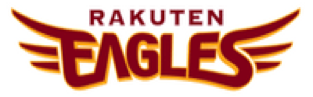
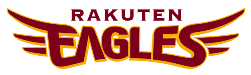
ref#tkt3606 ロゴ変更、print修正

diff --git a/ticketing/src/altair/app/ticketing/orderreview/templates/eagles/pc/order_review/receipt.html b/ticketing/src/altair/app/ticketing/orderreview/templates/eagles/pc/order_review/receipt.html
@@ -6,10 +6,6 @@
 <meta http-equiv="x-ua-compatible" content="ie=edge">
 <meta name="viewport" content="width=device-width, initial-scale=1">
 <link rel="shortcut icon" type="image/vnd.microsoft.icon" href="${view_context.static_url('images/eagles.ico')}">
-<link rel="apple-touch-icon" sizes="180x180" href="${view_context.static_url('images/touch.png')}">
-<link rel="apple-touch-icon-precomposed" href="${view_context.static_url('images/touch.png')}">
-<link rel="shortcut icon" href="${view_context.static_url('images/touch.png')}">
-<link rel="icon" sizes="192x192" href="${view_context.static_url('images/touch.png')}">
 <link rel="stylesheet" href="${view_context.static_url('css/common.css')}">
 <style>
     section.contents {
@@ -25,7 +21,7 @@
         justify-content: center;
     }
     .trademark-wrap {
-        width: 200px;
+        width: 250px;
         margin-bottom: 50px;
     }
     .trademark-wrap img {
@@ -95,14 +91,21 @@
             margin-left: 5%;
         }
     }
-    @page {
-        size: A4;
-        margin: 0;
-    }
     @media print {
+        @page {
+            size: A4;
+            margin: 0;
+        }
         html, body {
             width: 210mm;
-            height: 297mm;
+            font-size: 12pt !important;
+        }
+        * {
+            -webkit-filter: none;
+            -moz-filter: none;
+            -ms-filter: none;
+            -o-filter: none;
+            filter: none;
         }
         .page {
             margin: 0;
@@ -115,8 +118,11 @@
             page-break-after: always;
         }
         .wrap {
-            width: 90%;
-            margin-left: 5%;
+            width: 80%;
+            margin-left: 10%;
+        }
+        h3, .thank-cmt {
+            font-size: 14pt;
         }
         .buttons {
             display:none;
